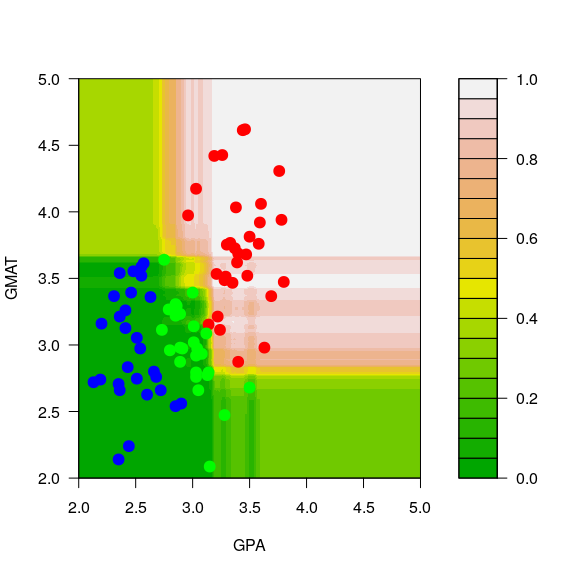
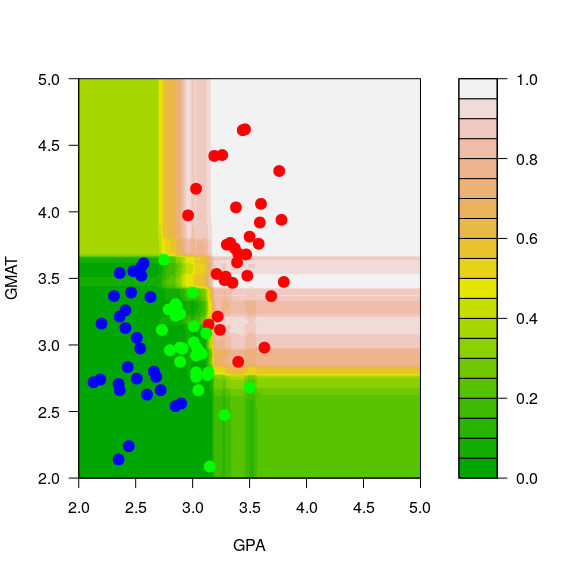
updated Lec 16 notes

diff --git a/Lecture16/README.md b/Lecture16/README.md
@@ -1,7 +1,7 @@
 STAT406 - Lecture 16 notes
 ================
 Matias Salibian-Barrera
-2018-11-01
+2018-11-02
 
 LICENSE
 -------
@@ -16,7 +16,9 @@ Preliminary lecture slides will be here.
 Random Forests
 ==============
 
-Even though using a *bagged* ensemble of trees usually results in a more stable predictor / classifier, it can be improved further by constucting the members of the ensemble in a careful way. The main idea is to try to reduce the (conditional) potential correlation among the predictions of the bagged trees, as discussed in class. To train a Random Forest in `R` we use the funtion `randomForest` from the package with the same name. The syntax is the same as that of `rpart`, but the tuning parameters for each of the *trees* in the *forest* are different from `rpart`. Refer to the help page if you need to modify them.
+Even though using a *bagged* ensemble of trees usually results in a more stable predictor / classifier, a better ensemble can be improved by training each of its members in a careful way. The main idea is to try to reduce the (conditional) potential correlation among the predictions of the bagged trees, as discussed in class. Each of the bootstrap trees in the ensemble is grown using only a randomly selected set of features when partitioning each node. More specifically, at each node only a random subset of explanatory variables is considered to determine the optimal split. This randomly chosen features are selected independently at each node as the tree is being constructed.
+
+To train a Random Forest in `R` we use the funtion `randomForest` from the package with the same name. The syntax is the same as that of `rpart`, but the tuning parameters for each of the *trees* in the *forest* are different from `rpart`. Refer to the help page if you need to modify them.
 
 We load and prepare the admissions data as before:
 
@@ -33,7 +35,7 @@ library(randomForest)
 a.rf <- randomForest(V3~V1+V2, data=mm, ntree=500) 
 ```
 
-Predictions can be obtained using the `predict` method, as usual, when you specify the `newdata` argument. Refer to the help page of `predict.randomForest` for details on the behaviour of `predict` for Random Forests objects when the argument `newdata` is missing.
+Predictions can be obtained using the `predict` method, as usual, when you specify the `newdata` argument. Refer to the help page of `predict.randomForest` for details on the different behaviour of `predict` for Random Forests objects when the argument `newdata` is either present or missing.
 
 To visualize the predicted classes obtained with a Random Forest on our example data, we compute the corresponding predicted conditional class probabilities on the same grid used before:
 
@@ -48,10 +50,10 @@ The estimated conditional probabilities for class *red* are shown in the plot be
 
 ``` r
 pp.rf <- predict(a.rf, newdata=dd, type='prob')
-filled.contour(aa, bb, matrix(pp.rf[,1], 200, 200), col=terrain.colors(20), xlab='GPA', ylab='GMAT',
+filled.contour(aa, bb, matrix(pp.rf[,1], 200, 200), col=terrain.colors(20), xlab='GPA', ylab='GMAT', 
                plot.axes={axis(1); axis(2)},
-                 panel.last={points(mm[,-3], pch=19, cex=1.5, col=c("red", "blue", "green")[mm[,3]])
-               })
+               panel.last={points(mm[,-3], pch=19, cex=1.5, col=c("red", "blue", "green")[mm[,3]])}
+               )
 ```
 
 ![](README_files/figure-markdown_github/rf1.1-1.png)
